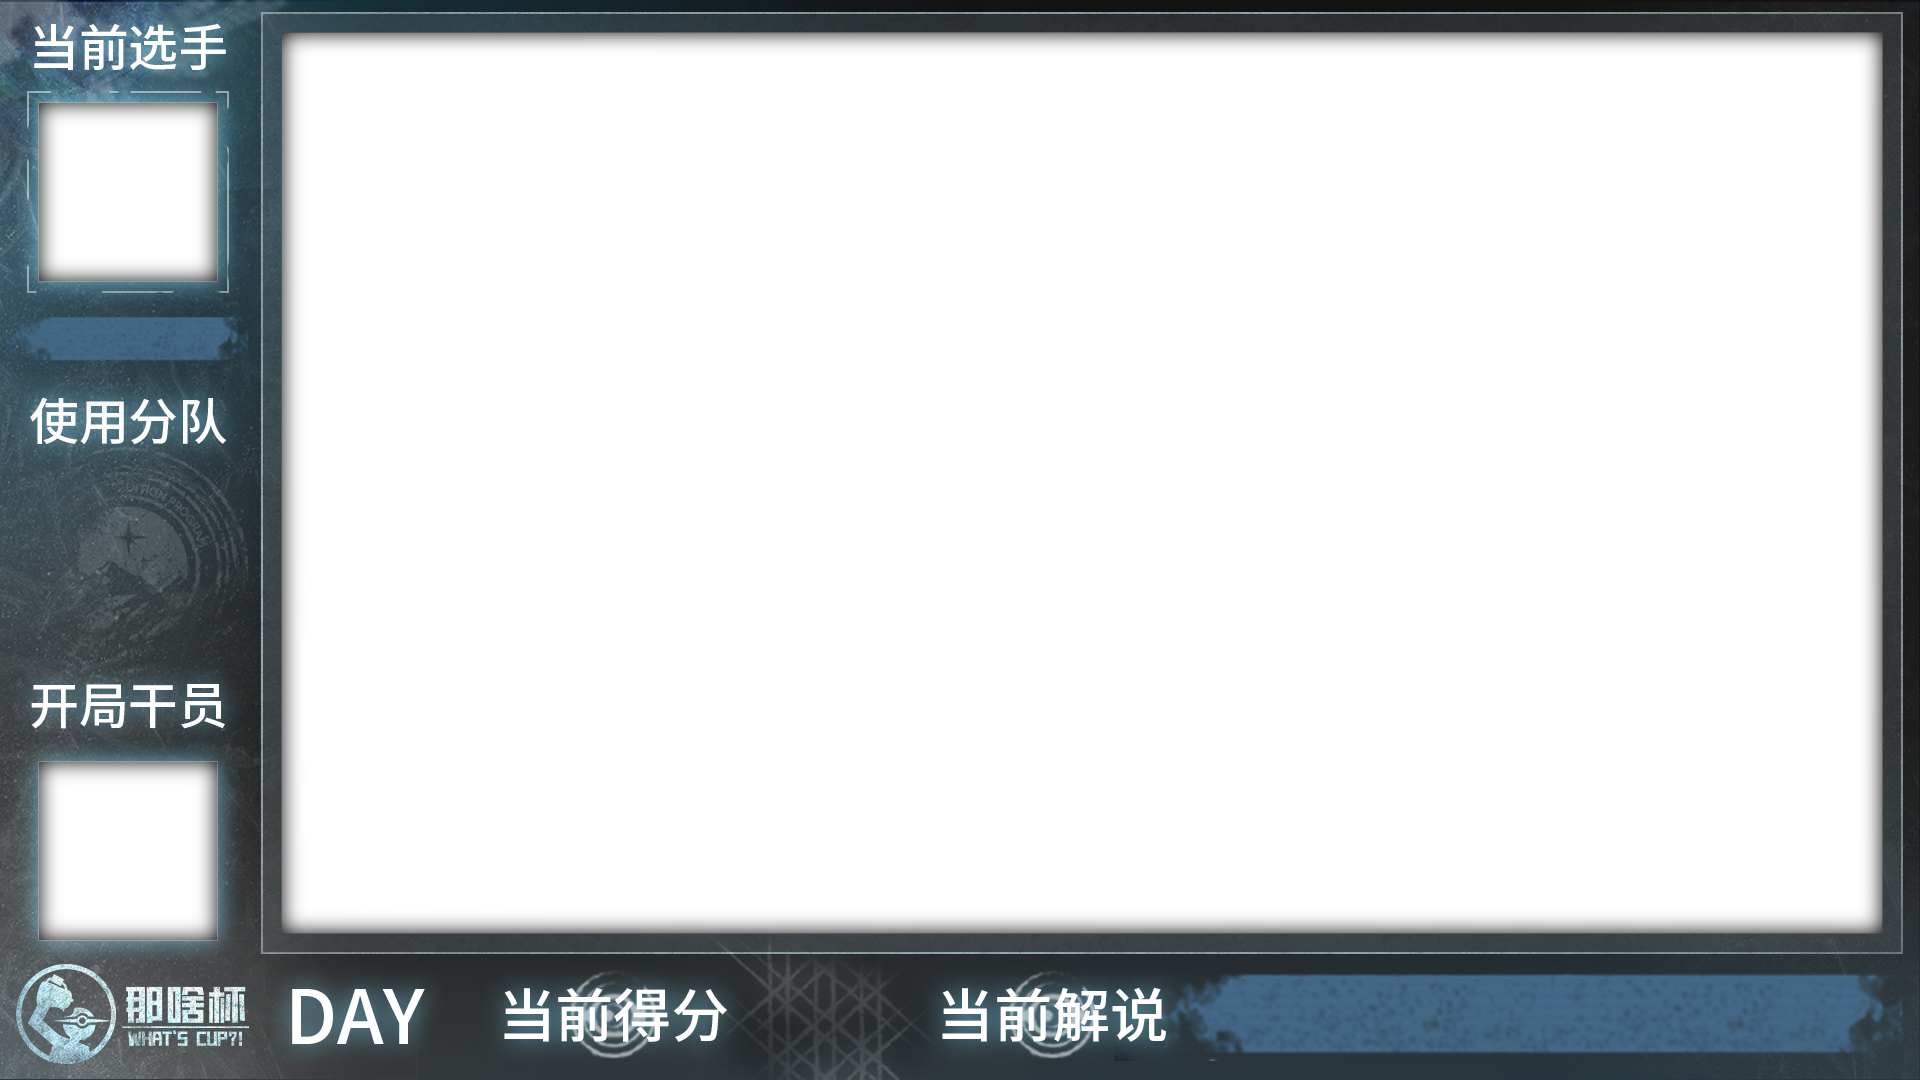
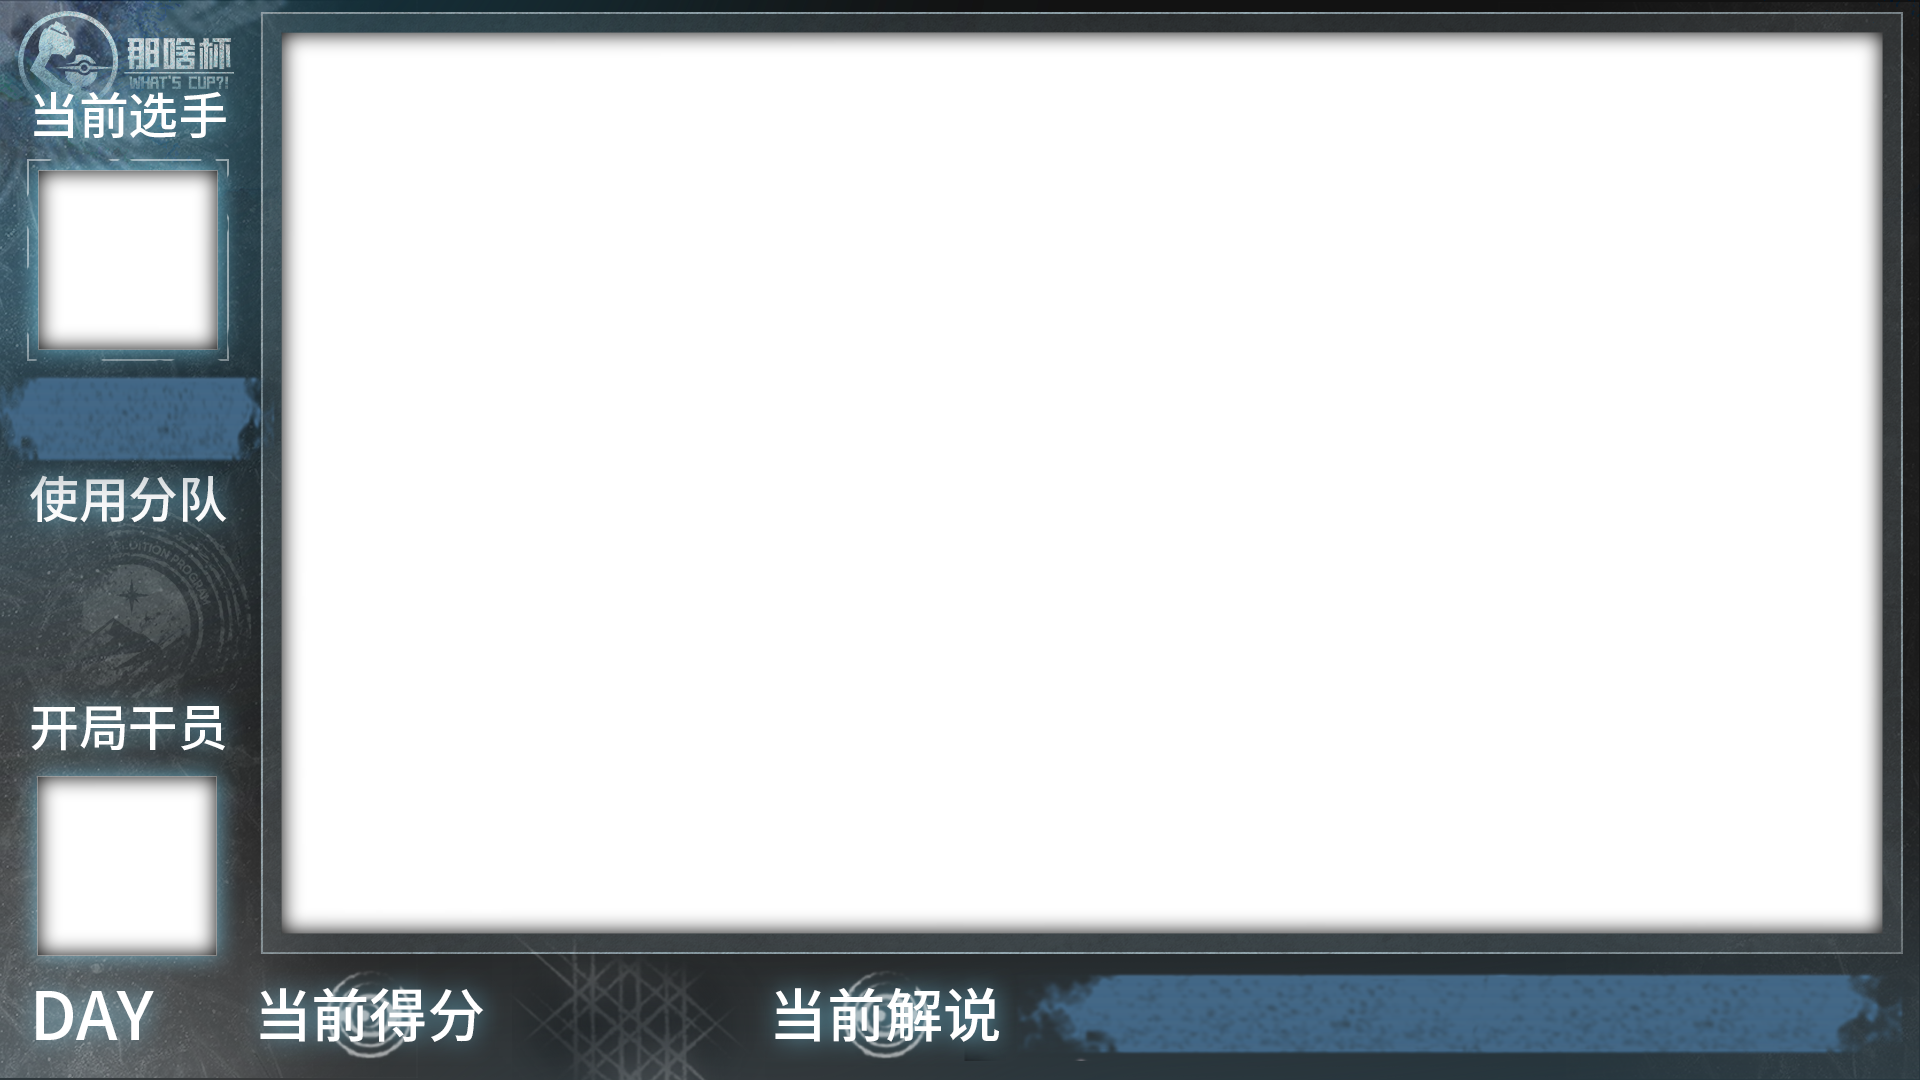
1.0.0

diff --git a/utils.py b/utils.py
@@ -63,9 +63,9 @@ class ReqClientEx(obs.ReqClient):
             self.find_source(scene_name, web_item_name)["sceneItemId"],
             False,
         )
-        # time.sleep(0.1)
+        # time.sleep(0.15)
         self.set_input_settings(web_item_name, {"url": addr}, True)
-        # time.sleep(0.2)
+        # time.sleep(0.15)
         self.set_scene_item_enabled(
             scene_name,
             self.find_source(scene_name, web_item_name)["sceneItemId"],
@@ -120,12 +120,85 @@ class ReqClientEx(obs.ReqClient):
         self.set_source_enabled("main", GROUP_NAME, False)
         time.sleep(animation)
 
-    def set_score(self, score: int):
-        self.set_input_settings("text_score", {"text": str(round(score))}, True)
+    def set_score(self, score: str):
+        MID_X = 625  # 文字的对齐中心X
+        Y = 963  # 文字的Y
+        score = str(score)
+        self.set_input_settings("text_score", {"text": score}, True)
+        # time.sleep(0.15)
+        width = 35 * len(score)
+        if "." in score:
+            width -= 14
+        x = MID_X - width / 2
+        self.set_scene_item_transform(
+            "main",
+            self.find_source("main", "text_score")["sceneItemId"],
+            {"positionX": x, "positionY": Y},
+        )
 
     def set_player(self, name: str, avatar_path: str):
-        self.set_input_settings("text_player", {"text": name}, True)
+        MID_X = 130  # 文字的对齐中心X
+        X_MIN = 28  # 文字的左换行边界
+        Y1 = 390  # 第一行文字的Y
+        Y2 = 377  # 第二行文字的Y
+        Y3 = 415  # 第三行文字的Y
+        Y2_ONLY = 395  # 只有第二行文字的Y
+
         self.set_input_settings("icon_player", {"file": avatar_path}, True)
+        self.set_source_enabled("main", "text_player1", False)
+        self.set_source_enabled("main", "text_player2", False)
+        self.set_source_enabled("main", "text_player3", False)
+        self.set_input_settings("text_player1", {"text": name}, True)
+        time.sleep(0.15)
+        width = self.find_source("main", "text_player1", cache=False)[
+            "sceneItemTransform"
+        ]["width"]
+        x = MID_X - width / 2
+        if x >= X_MIN:
+            self.set_scene_item_transform(
+                "main",
+                self.find_source("main", "text_player1")["sceneItemId"],
+                {"positionX": x, "positionY": Y1},
+            )
+            self.set_source_enabled("main", "text_player1", True)
+            return
+        self.set_input_settings("text_player2", {"text": name}, True)
+        time.sleep(0.15)
+        width = self.find_source("main", "text_player2", cache=False)[
+            "sceneItemTransform"
+        ]["width"]
+        x = MID_X - width / 2
+        if x >= X_MIN:
+            self.set_scene_item_transform(
+                "main",
+                self.find_source("main", "text_player2")["sceneItemId"],
+                {"positionX": x, "positionY": Y2_ONLY},
+            )
+            self.set_source_enabled("main", "text_player2", True)
+            return
+        text1 = name[: len(name) // 2 + 1]
+        text2 = name[len(name) // 2 + 1 :]
+        self.set_input_settings("text_player2", {"text": text1}, True)
+        self.set_input_settings("text_player3", {"text": text2}, True)
+        time.sleep(0.15)
+        width1 = self.find_source("main", "text_player2", cache=False)[
+            "sceneItemTransform"
+        ]["width"]
+        width2 = self.find_source("main", "text_player3", cache=False)[
+            "sceneItemTransform"
+        ]["width"]
+        self.set_scene_item_transform(
+            "main",
+            self.find_source("main", "text_player2")["sceneItemId"],
+            {"positionX": MID_X - width1 / 2, "positionY": Y2},
+        )
+        self.set_scene_item_transform(
+            "main",
+            self.find_source("main", "text_player3")["sceneItemId"],
+            {"positionX": MID_X - width2 / 2, "positionY": Y3},
+        )
+        self.set_source_enabled("main", "text_player2", True)
+        self.set_source_enabled("main", "text_player3", True)
 
     def set_start(self, team_path: str, operator_path: str):
         if team_path:

diff --git a/main.py b/main.py
@@ -3,7 +3,6 @@ import os
 import shelve
 import sys
 import tempfile
-import time
 import uuid
 from copy import copy
 from dataclasses import dataclass
@@ -30,7 +29,7 @@ qdarktheme import after QT
 import qdarktheme
 
 UUID_NAMESPACE = uuid.UUID("1b671a64-40d5-491e-99b0-da01ff1f3341")
-VERSION = "0.3.0"
+VERSION = "1.0.0"
 AVATAR_SIZE = 140  # 软件内头像大小
 OBS_AVATAR_SIZE = 180  # OBS头像大小
 DARK_THEME = True  # 是否使用暗色主题
@@ -253,13 +252,16 @@ class MainWindow(QMainWindow, MainUITemplate):
             f"{score} ( Slot {max_index+1} )" if max_score >= 0 else "N/A"
         )
 
-    def sync_obs_player_info(self):
+    def sync_obs_player_info(self, skip_sync_name=False):
         """
         同步OBS直播间的玩家信息
+
+        skip_sync_name: 是否跳过同步干员名字(耗时, 因为要计算文本对齐)
         """
         if not self.connected:
             return
-        self.obs.fake.set_player(self.player_now.name, self.avatar_obs_path)
+        if not skip_sync_name:
+            self.obs.fake.set_player(self.player_now.name, self.avatar_obs_path)
         self.obs.fake.set_start(
             os.path.join(START_TEAM_PATH, f"{self.record.start_team}.png")
             if self.record.start_team != "未知"
@@ -268,7 +270,7 @@ class MainWindow(QMainWindow, MainUITemplate):
             if self.record.start_operator != "未知"
             else "",
         )
-        self.obs.fake.set_score(self.record.score)
+        self.obs.fake.set_score(f"{self.record.score:.4f}".rstrip("0").rstrip("."))
 
     def load_player(self, name: str):
         """
@@ -486,14 +488,14 @@ class MainWindow(QMainWindow, MainUITemplate):
     def on_comboBoxStartOperator_currentIndexChanged(self, index: int):
         name = self.comboBoxStartOperator.currentText()
         self.record.start_operator = name
-        self.sync_obs_player_info()
+        self.sync_obs_player_info(True)
         logger.info(f"Start operator updated: {name}")
 
     @Slot(int)
     def on_comboBoxStartTeam_currentIndexChanged(self, index: int):
         name = self.comboBoxStartTeam.currentText()
         self.record.start_team = name
-        self.sync_obs_player_info()
+        self.sync_obs_player_info(True)
         logger.info(f"Start team updated: {name}")
 
     # listRecord 删除
@@ -535,7 +537,7 @@ class MainWindow(QMainWindow, MainUITemplate):
         self.update_player_info()
         logger.info(f"Score recalculated: {score:.4f}")
         if self.connected:
-            self.obs.fake.set_score(self.record.score)
+            self.obs.fake.set_score(f"{score:.4f}".rstrip("0").rstrip("."))
         ###### 以下为额外逻辑 ######
         six, five, four = 0, 0, 0
         for text in self.record.data:
@@ -582,6 +584,15 @@ class MainWindow(QMainWindow, MainUITemplate):
         self.record.valid = True
         logger.info(f"Base score changed to {self.record.base_score}")
         self.recalc_score()
+        if self.connected and self.checkBoxEnLowers.isChecked():
+            self.obs.fake.display_lower(
+                "基础分数",
+                f"+{self.record.base_score}",
+                0,
+                duration=OBS_TOAST_DURATION,
+                plus_bk_path=os.path.join(RESOURCE_PATH, OBS_TOAST_PLUS_IMG_NAME),
+                minus_bk_path=os.path.join(RESOURCE_PATH, OBS_TOAST_MINUS_IMG_NAME),
+            )
 
     @Slot()
     def on_pushButtonConnect_clicked(self):
@@ -610,6 +621,7 @@ class MainWindow(QMainWindow, MainUITemplate):
             self.labelConState.setText("/// PRTS 已连接 ///")
             self.labelConState.setStyleSheet("color: #93bd7a")
             self.obs.set_pause(self.checkBoxPause.isChecked())
+            self.sync_obs_player_info()
 
     @Slot()
     def on_pushButtonClrLowers_clicked(self):

diff --git a/instruction.md b/instruction.md
@@ -1,0 +1,162 @@
+# 直播间使用说明
+
+By Ellu
+
+## 1. 设置OBS
+
+### 1.1. 安装OBS
+
+- 下载地址：[https://obsproject.com/](https://obsproject.com/)
+
+![1716726040006](image/instruction/1716726040006.png)
+
+如图，点击`Windows`下载OBS，随后安装。
+
+> 如果你用的Mac，请直接关闭文档，然后换人直播（
+
+### 1.2. 下载整合包
+
+打开从群里下载的整合包，其中应该包括下面这些文件
+
+![1716726432864](image/instruction/1716726432864.png)
+
+将他们解压到你找的到的地方，打开`字体`文件夹，全选，右键安装
+
+![1716730477675](image/instruction/1716730477675.png)
+
+然后打开OBS
+
+> 第一次启动OBS会跳出来个向导，你可以直接关掉
+
+### 1.3. 导入配置
+
+如图，点击`场景集合`，然后点击`导入`，点击`...`，添加解压后的文件`那啥杯直播间.json`，然后点击`导入`
+
+![1716726588181](image/instruction/1716726588181.png)
+![1716726640464](image/instruction/1716726640464.png)
+
+再次点击`场景集合`，选择`那啥杯直播间`进行切换
+
+![1716726683627](image/instruction/1716726683627.png)
+
+此时由于换了电脑，必然会弹出警告`缺少文件`
+
+![1716726716753](image/instruction/1716726716753.png)
+
+这时点击`查找文件夹`，找到解压后的`resource`文件夹进行自动导入
+
+![1716726780535](image/instruction/1716726780535.png)
+
+此时除了某些选项，大部分都应变为`已找到`，点击`应用`完成导入，直播间的设置就完成了
+
+![1716726805442](image/instruction/1716726805442.png)
+
+### 1.4. 设置直播间
+
+**直播间除了比赛日`DAYx`和`当前解说`外，其他元素都由计分器控制，请不要手动更改**
+
+- 设置比赛日：在`来源`中找到`text_day`，选中后在上方修改：
+
+![1716727354094](image/instruction/1716727354094.png)
+
+- 设置解说：在`来源`中找到`text_speaker`，选中后在上方修改：
+
+![1716727375340](image/instruction/1716727375340.png)
+
+> 如果解说文字没对齐，点击`text_speaker`旁边的小锁解锁，然后在上方的预览窗口中拖动文字到合适位置，再次点击小锁锁定
+
+## 2. 计分器连接和使用
+
+### 2.1. 连接计分器
+
+双击打开`ArkRogueTerminal.exe`，等待加载后应如下
+
+![1716726913030](image/instruction/1716726913030.png)
+
+转到OBS，点击`工具`，选择`WebSocket服务器设置`
+
+![1716726950609](image/instruction/1716726950609.png)
+
+如图调整选项，点击`应用`，然后点击`确定`
+
+![1716726992277](image/instruction/1716726992277.png)
+
+转到计分器，点击右下角的`连接OBS`，等待后应显示`PRTS已连接`
+
+![1716727048497](image/instruction/1716727048497.png)
+
+### 2.2. 计分器使用
+
+计分器分为上中下三部分，分别对应`选手存档管理`、`计分`、`OBS控制`
+
+在存档管理部分，点击添加可新增选手，**新增的选手会显示`无头像`**，这时进入`ark_data/avatar`文件夹，将选手头像放在这里，名字改为选手的昵称，返回软件重新切换到选手即可正确识别头像
+
+![1716727231679](image/instruction/1716727231679.png)
+
+> 头像分辨率不限，但必须是1:1的正方形
+
+每个选手有16个记录槽位，对应不同的存档，切换即可查看和修改对应的记录，如果一个选手有重开之类的操作，记得切换别的槽位，不要直接覆盖。
+
+![1716727812396](image/instruction/1716727812396.png)
+
+在存档管理和计分部分，进行任意操作时，如果已经连接了OBS，所有操作都会同步到OBS（**包括修改选手、开局干员和分队、修改基础分数等**），如果想在后台调整数据而不影响直播，可以勾选左下角的`暂停刷新`，此时所有操作都不会同步到OBS，直到取消勾选（这时会立即同步所有数据）
+
+![1716727560442](image/instruction/1716727560442.png)
+
+在计分部分，所有的更改操作都会在直播间生成一个浮窗，如果想暂时隐藏这个浮窗，可以取消勾选`显示弹出通知`，如果短时间进行大量计分操作，可能会导致弹窗积压（弹窗是一个个排队显示的），这时可以点击`别弹通知了`，这样所有未显示的弹窗都会被取消（也会导致分数不同步，再任意修改一次分数即可）
+
+## 3. B站开播说明
+
+> 这里只是简单的说明，具体的开播流程和参数在群里讨论
+
+### 3.1. 设置直播间
+
+首先设置OBS，找到`来源`中的`窗口采集`，如图
+
+![1716728210364](image/instruction/1716728210364.png)
+
+点击上面的`设置`，按下面配置，重点是修改采集窗口和匹配模式，然后点击`确定`
+
+> 需要注意，如果使用浏览器采集别的直播，最好使用B站的`窗口全屏`，当全屏应用遮盖时浏览器为了节省资源会让视频黑屏
+
+![1716728353511](image/instruction/1716728353511.png)
+
+然后点击`窗口采集`右边的小眼睛，开启来源
+
+![1716728511069](image/instruction/1716728511069.png)
+
+此时直播间尺寸大概不对的，拖动来源的边缘调整大小，使其匹配右上角预留的位置的同时，隐藏不需要的元素
+
+> 按住`Shift`的同时拖动来保持比例，如果比例已经不对了，按`Ctrl+R`重置比例
+
+![1716728637187](image/instruction/1716728637187.png)
+
+在左下角的`场景`选择`idle`，切换到空闲场景
+
+![1716730151011](image/instruction/1716730151011.png)
+
+### 3.2. 开始直播
+
+打开[个人直播设置](https://link.bilibili.com/p/center/index#/my-room/start-live)，如图
+
+![1716728794324](image/instruction/1716728794324.png)
+
+**按要求修改直播间标题、封面、标签等**，然后点击`开始直播`，会获得直播地址
+
+![1716728823206](image/instruction/1716728823206.png)
+
+点击OBS右下角的`设置`，按照下图逐级设置
+
+![1716728903720](image/instruction/1716728903720.png)
+
+![1716729056838](image/instruction/1716729056838.png)
+
+![1716729183956](image/instruction/1716729183956.png)
+
+![1716729252378](image/instruction/1716729252378.png)
+
+![1716729261024](image/instruction/1716729261024.png)
+
+![1716729288063](image/instruction/1716729288063.png)
+
+设置完后应用并确认，此时点击右下角的`开始直播`，直播间推流就启动了

diff --git a/readme.md b/readme.md
@@ -9,14 +9,16 @@
 
 ![1715862634623](image/readme/1715862634623.png)
 
+![1716734416372](image/readme/1716734416372.png)
+
 ## 功能
 
 - [x] 总分计算
 - [x] 玩家记录数据库
 - [x] 多记录槽位
 - [x] 编译到X86可执行文件
-- [ ] OBS直播间模板
-- [ ] OBS玩家昵称、头像推送
-- [ ] OBS总分实时同步
-- [ ] OBS得分浮窗通知效果
-- [ ] OBS界面管理（开局、解说、页面切换）
+- [x] OBS直播间模板
+- [x] OBS玩家昵称、头像推送
+- [x] OBS总分实时同步
+- [x] OBS得分浮窗通知效果
+- [x] OBS界面管理（开局、解说、页面切换）
